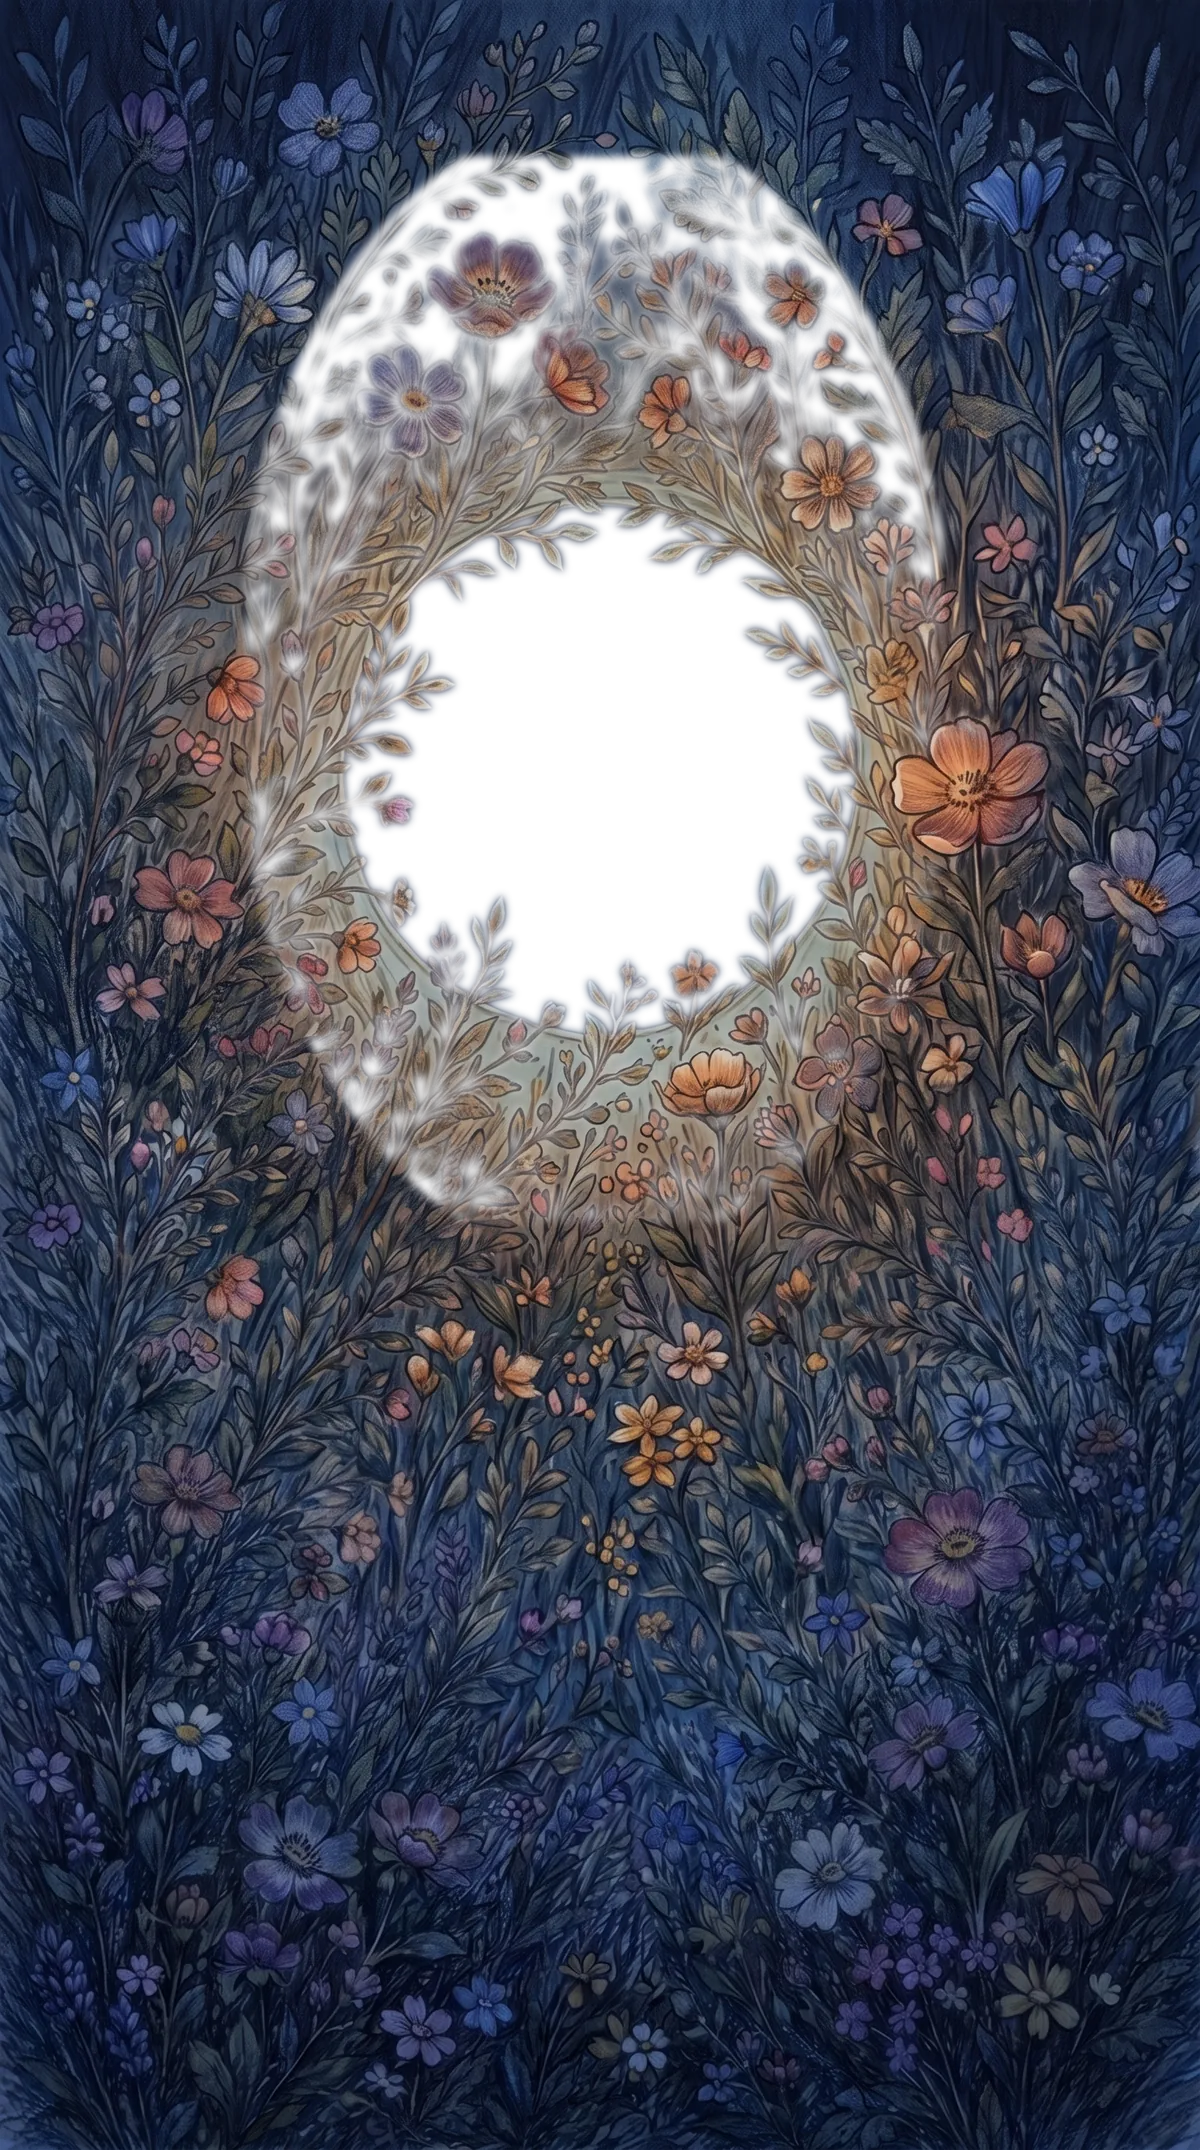
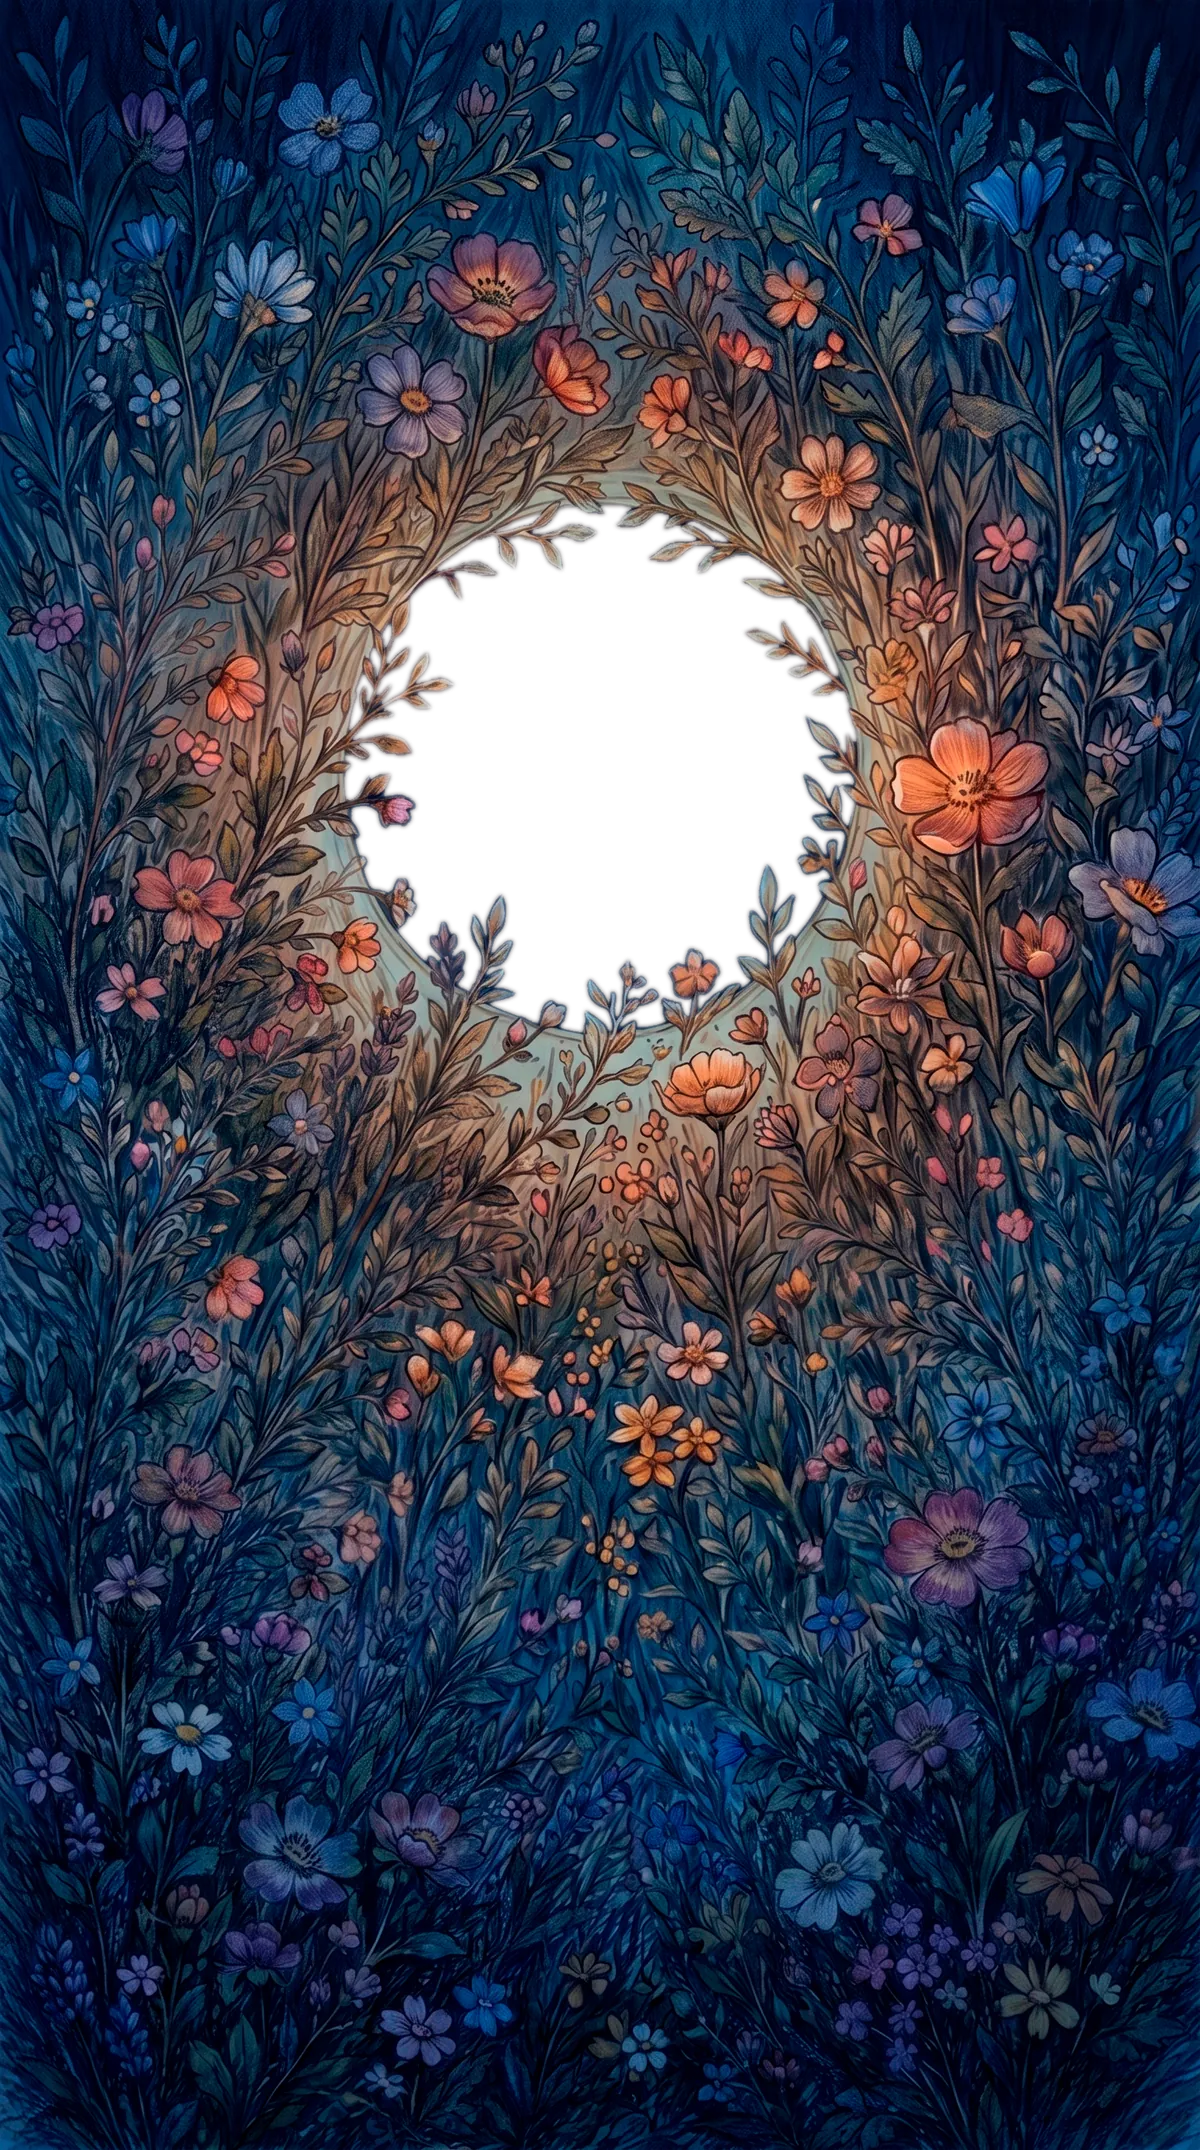
Новые стены сада, мерцание над галереей, точный прицел влёта
Стены: поставлены картинки заказчика с самостоятельно вырезанной дыркой.
Под нулевой альфой редактор оставил белый RGB — перед пережатием залит
цветом кольца, иначе lossy-webp размазал бы белую кайму по листве.
8,9 и 8,5 МБ PNG → 525 и 517 КБ webp.

Галерея: 28 четырёхлучевых искр поверх фотографий — те же звёздочки,
что в небе, но живые; слой внутри .bw-gal, поэтому проявляется вместе
с ней и не мешает перетаскиванию. Рябь карточек тише ещё вдвое.

Влёт: прицел больше не задаётся процентами в CSS — экранное положение
дырки зависит от подрезки object-fit:cover. JS считает его по data-hole,
ставит туда transform-origin и подвозит план, чтобы дырка вышла в центр
кадра; сдвиг с power3.in отстаёт от роста, поэтому стена не вылезает
краем. Светлячки гаснут на пролёте — один из них висел жёлтой точкой
над галереей.

Отладка: ?shot=gallery и ?bw=<фаза>.

diff --git a/prototype/home.html b/prototype/home.html
@@ -608,21 +608,22 @@
   /* жёлтое свечение в дырке убрано (реш. пользователя 23.07) */
   /* дымка-воздух между стеной и кустами */
   .bw-haze{position:absolute;inset:0;pointer-events:none;background:#1B3159}
-  /* мобилка: дырка вертикальной стены сидит выше центра (32% высоты кадра) —
-     зум наводим на неё */
-  @media (max-aspect-ratio: 4/5){
-    .bw-plane--wall{transform-origin:50% 32%}
-  }
+  /* transform-origin стены НЕ задаём в CSS (24.07): экранное положение дырки
+     зависит от того, как object-fit:cover подрезал картинку на конкретном
+     экране — его считает JS (см. aimHole). Небольшой запас по краям нужен,
+     потому что план ещё и подъезжает, доводя дырку до центра кадра. */
+  .bw-plane--wall{inset:-3%}
   /* светлячки: мерцают сами, глубину получают вместе со своим планом */
   .ff{position:absolute;width:6px;height:6px;border-radius:50%;
     background:radial-gradient(circle, #FFE9A8 0%, rgba(255,214,110,0) 70%);
     animation:ffTw 2.8s ease-in-out infinite}
   @keyframes ffTw{0%,100%{opacity:.25;transform:scale(.8)}50%{opacity:1;transform:scale(1.3)}}
-  /* ⚠️ мерцание глушим на время пролёта (24.07): светлячок живёт ВНУТРИ плана,
-     а план в этот момент растянут до 7×. Пока внутри что-то анимируется,
-     видеокарта не может держать слой готовым и перерисовывает его целиком
-     в увеличенном размере на каждом кадре — это и был главный тормоз. */
-  #burrow.flying .ff{animation:none;opacity:.6}
+  .ff{transition:opacity .45s ease}
+  /* ⚠️ светлячки гаснут на время пролёта (24.07). Две причины: они живут ВНУТРИ
+     плана, растянутого до 7×, и пока внутри что-то анимируется, видеокарта
+     перерисовывает весь этот слой каждый кадр; плюс к финалу зума светлячок
+     стены уезжал в угол экрана и висел жёлтой точкой над галереей. */
+  #burrow.flying .ff{animation:none;opacity:0}
   /* кремовый «выход» убран (реш. пользователя 23.07): после пролёта остаёмся
      в тёмном пространстве — рисованное небо (night-sky) с луной и облаками,
      CSS-полумесяц стал не нужен */
@@ -670,6 +671,20 @@
   .bw-gal .lead{opacity:.8}
   .bw-gal .cgal{margin:20px 0 6px}
   .bw-gal .cgal-hint{color:var(--cream);opacity:.55}
+  /* ЖИВЫЕ ЗВЁЗДЫ ПОВЕРХ ГАЛЕРЕИ (24.07): те же четырёхлучевые звёздочки, что
+     нарисованы в небе, но дышащие — искры мерцают прямо по фотографиям.
+     Слой лежит ВНУТРИ .bw-gal, поэтому проявляется вместе с ней; клики и
+     перетаскивание карусели сквозь него проходят (pointer-events:none). */
+  .gal-sparks{position:absolute;inset:0;z-index:3;pointer-events:none;overflow:hidden}
+  .gal-sparks.paused i{animation-play-state:paused}
+  .gal-sparks i{position:absolute;display:block;background:#FFF3D2;
+    clip-path:polygon(50% 0,57% 43%,100% 50%,57% 57%,50% 100%,43% 57%,0 50%,43% 43%);
+    filter:drop-shadow(0 0 3px rgba(255,226,152,.8));
+    animation:sparkTw 4s ease-in-out infinite}
+  @keyframes sparkTw{
+    0%,100%{opacity:.08;transform:scale(.5) rotate(0deg)}
+    50%    {opacity:.95;transform:scale(1)  rotate(24deg)}}
+  @media (prefers-reduced-motion: reduce){ .gal-sparks{display:none} }
   /* WebGL CircularGallery (порт React Bits, 23.07): включается классом .webgl
      на .bw-gal, DOM-карусель .cgal остаётся фолбэком (нет WebGL / reduce).
      touch-action:pan-y — вертикальный скролл страницы не перехватываем */
@@ -1056,7 +1071,11 @@
          вертикальный garden-side-m (⚠️ без пробелов в srcset). -->
     <!-- data-dur .85: стена ПОЛНОСТЬЮ уходит за кадр до появления галереи (.72),
          иначе её края «не докручивались» и висели по бокам финала -->
-    <div class="bw-plane bw-plane--wall" data-scale="7" data-dur=".85" data-ease="power3.in">
+    <!-- data-hole: центр прозрачной дырки в процентах от самой картинки
+         (замерено по альфе: десктоп 50.8/48.6, мобилка 50/35.7) — по нему JS
+         наводит зум и доводит дырку к центру кадра -->
+    <div class="bw-plane bw-plane--wall" data-scale="7" data-dur=".85" data-ease="power3.in"
+      data-hole="50.8 48.6" data-hole-m="50 35.7">
       <picture>
         <source media="(max-aspect-ratio: 4/5)" srcset="garden-wall-m.webp">
         <img class="bw-img" src="garden-wall.webp" alt="">
@@ -1120,6 +1139,8 @@
         <div class="wgal" id="wgal" tabindex="0" role="region"
           aria-label="Круговая галерея фотографий — тяните вбок или стрелками"></div>
       </section>
+      <!-- мерцающие звёзды поверх фотографий (наполняются из JS) -->
+      <div class="gal-sparks" id="galSparks" aria-hidden="true"></div>
     </div>
   </div>
 </section>
@@ -1975,6 +1996,39 @@
       var sec = document.getElementById('burrow');
       if (!sec) return;
       sec.classList.add('on');
+      /* ⚠️ ПРИЦЕЛ В ДЫРКУ (24.07). Раньше зум шёл от фиксированного процента
+         (50% 50% на десктопе, 50% 36% на мобилке), но экранное положение дырки
+         от этих процентов не зависит: object-fit:cover подрезает картинку
+         по-разному на каждом экране, и влёт уходил мимо центра.
+         Теперь считаем координаты дырки честно и делаем две вещи:
+         1) ставим туда transform-origin — летим ровно в дырку;
+         2) плавно подвозим план так, чтобы дырка выехала в центр кадра.
+         Сдвиг с ease power3.in: в начале он почти нулевой, а к моменту, когда
+         он заметен, стена уже разрослась и краями за кадр не вылезает. */
+      var wall = sec.querySelector('.bw-plane--wall');
+      var wimg = wall && wall.querySelector('img');
+      var aim = {x: 0, y: 0};
+      function aimHole(){
+        if (!wall || !wimg || !wimg.naturalWidth) return;
+        var bw = wall.offsetWidth, bh = wall.offsetHeight;
+        if (!bw || !bh) return;
+        var nw = wimg.naturalWidth, nh = wimg.naturalHeight;
+        var k = Math.max(bw / nw, bh / nh);              /* как object-fit:cover */
+        var mob = /-m\.webp/.test(wimg.currentSrc || wimg.src);
+        var h = (wall.getAttribute(mob ? 'data-hole-m' : 'data-hole') || '50 50').split(' ');
+        var px = bw / 2 + (parseFloat(h[0]) / 100 - .5) * nw * k;
+        var py = bh / 2 + (parseFloat(h[1]) / 100 - .5) * nh * k;
+        /* smoothOrigin:false — иначе GSAP при смене origin сам подправит x/y,
+           «чтобы не дёрнулось», и подмешает лишний сдвиг к нашему */
+        gsap.set(wall, {transformOrigin: px + 'px ' + py + 'px', smoothOrigin: false});
+        aim.x = bw / 2 - px;
+        aim.y = bh / 2 - py;
+      }
+      aimHole();
+      if (wimg && !wimg.complete)
+        wimg.addEventListener('load', function(){ aimHole(); ScrollTrigger.refresh(); }, {once: true});
+      ScrollTrigger.addEventListener('refreshInit', aimHole);
+
       /* класс .flying гасит мерцание светлячков на время полёта (см. CSS) —
          ставим один раз на входе в полёт, а не на каждом кадре */
       var flying = false;
@@ -2020,6 +2074,12 @@
         var d = parseFloat(pl.getAttribute('data-dur')) || 1;
         tl.fromTo(pl, {scale: f}, {scale: s, ease: ez, duration: du(d)}, at(0));
       });
+      /* доводка дырки к центру кадра (см. aimHole). Значения — функциями,
+         чтобы invalidateOnRefresh пересчитал их после ресайза и загрузки
+         картинки; power3.in держит сдвиг около нуля, пока стена ещё мелкая */
+      if (wall) tl.fromTo(wall, {x: 0, y: 0},
+        {x: function(){ return aim.x; }, y: function(){ return aim.y; },
+         ease: 'power3.in', duration: du(.55)}, at(0));
       /* ближние кусты гаснут, пройдя мимо камеры */
       var near = sec.querySelector('.bw-plane--near');
       if (near) tl.to(near, {opacity: 0, ease: 'power1.in', duration: du(.16)}, at(.46));
@@ -2031,6 +2091,21 @@
       tl.fromTo('#burrow .bw-gal', {opacity: 0, y: 36},
         {opacity: 1, y: 0, ease: 'power2.out', duration: du(.24)}, at(.72));
       tl.set('#burrow .bw-gal', {pointerEvents: 'auto'}, at(.78));
+
+      /* ?bw=0.5 — поставить пролёт на заданную фазу и замереть.
+         Нужен для снимков в headless: там нет прокрутки, а скраб со
+         сглаживанием сам по себе никуда не доедет. */
+      var bwq = new URLSearchParams(location.search).get('bw');
+      if (bwq !== null) addEventListener('load', function(){
+        setTimeout(function(){
+          var p = Math.max(0, Math.min(1, parseFloat(bwq) || 0));
+          ScrollTrigger.refresh();
+          scrollTo({top: tl.scrollTrigger.start + (tl.scrollTrigger.end - tl.scrollTrigger.start) * p,
+            behavior: 'instant'});
+          ScrollTrigger.update();
+          tl.progress(p);
+        }, 250);
+      }, {once: true});
     })();
 
     /* ПЕРЕХОД «сквозь тёплую темноту»: кухня выходит из тьмы и «зажигается» */
@@ -2273,6 +2348,11 @@
            за первые 18% скраба — иначе на снимке он всегда полупрозрачный */
         ? '.hero,#bakery,#why{display:none !important}' +
           '.bw-uiw{opacity:1 !important;transform:none !important}' : '') +
+      /* ?shot=gallery — финал пролёта: галерея и искры над ночным небом */
+      (qs.get('shot') === 'gallery'
+        ? '.hero,#bakery,#why{display:none !important}' +
+          '.bw-plane,.bw-haze,.bw-ui{display:none !important}' +
+          '.bw-gal{opacity:1 !important;pointer-events:auto}' : '') +
       /* ?shot=inside — состояние «внутри» без анимации: в headless переход
          не доигрывает и оба текста наложены друг на друга */
       (qs.get('shot') === 'inside'
@@ -2426,10 +2506,28 @@
       'animation-delay:-' + (Math.random()*6).toFixed(2) + 's';
     amb.appendChild(s);
   }
+  /* мерцающие искры ПОВЕРХ фотографий галереи: те же звёздочки, что в небе,
+     только крупнее и с лучами. Живут внутри .bw-gal — значит, проявляются
+     вместе с галереей и не мешают её перетаскивать. */
+  var sp = document.getElementById('galSparks');
+  if (sp){
+    for (var j = 0; j < 28; j++){
+      var k = document.createElement('i');
+      var kz = (6 + Math.random()*9).toFixed(1);
+      k.style.cssText = 'left:' + (2 + Math.random()*94).toFixed(1) + '%;' +
+        'top:' + (3 + Math.random()*93).toFixed(1) + '%;' +
+        'width:' + kz + 'px;height:' + kz + 'px;' +
+        'animation-duration:' + (3 + Math.random()*3.4).toFixed(2) + 's;' +
+        'animation-delay:-' + (Math.random()*7).toFixed(2) + 's';
+      sp.appendChild(k);
+    }
+  }
   var sec = amb.closest('#burrow') || amb.closest('.dark');
   if ('IntersectionObserver' in window && sec){
     new IntersectionObserver(function(es){
-      amb.classList.toggle('paused', !es[0].isIntersecting);
+      var off = !es[0].isIntersecting;
+      amb.classList.toggle('paused', off);
+      if (sp) sp.classList.toggle('paused', off);
     }, {rootMargin:'80px'}).observe(sec);
   }
 })();
@@ -2663,8 +2761,9 @@ class Media {
         uniform float uTime;uniform float uSpeed;varying vec2 vUv;
         void main(){
           vUv=uv;vec3 p=position;
-          /* амплитуда ряби снижена (24.07): карточки «волновались» слишком сильно */
-          p.z=(sin(p.x*4.0+uTime)*1.0+cos(p.y*2.0+uTime)*1.0)*(0.07+uSpeed*0.32);
+          /* амплитуда ряби снижена дважды (24.07): карточки «волновались»
+             слишком сильно — сначала до 1.0/0.07/0.32, теперь ещё тише */
+          p.z=(sin(p.x*4.0+uTime)*0.75+cos(p.y*2.0+uTime)*0.75)*(0.035+uSpeed*0.16);
           gl_Position=projectionMatrix*modelViewMatrix*vec4(p,1.0);
         }`,
       fragment: `precision highp float;